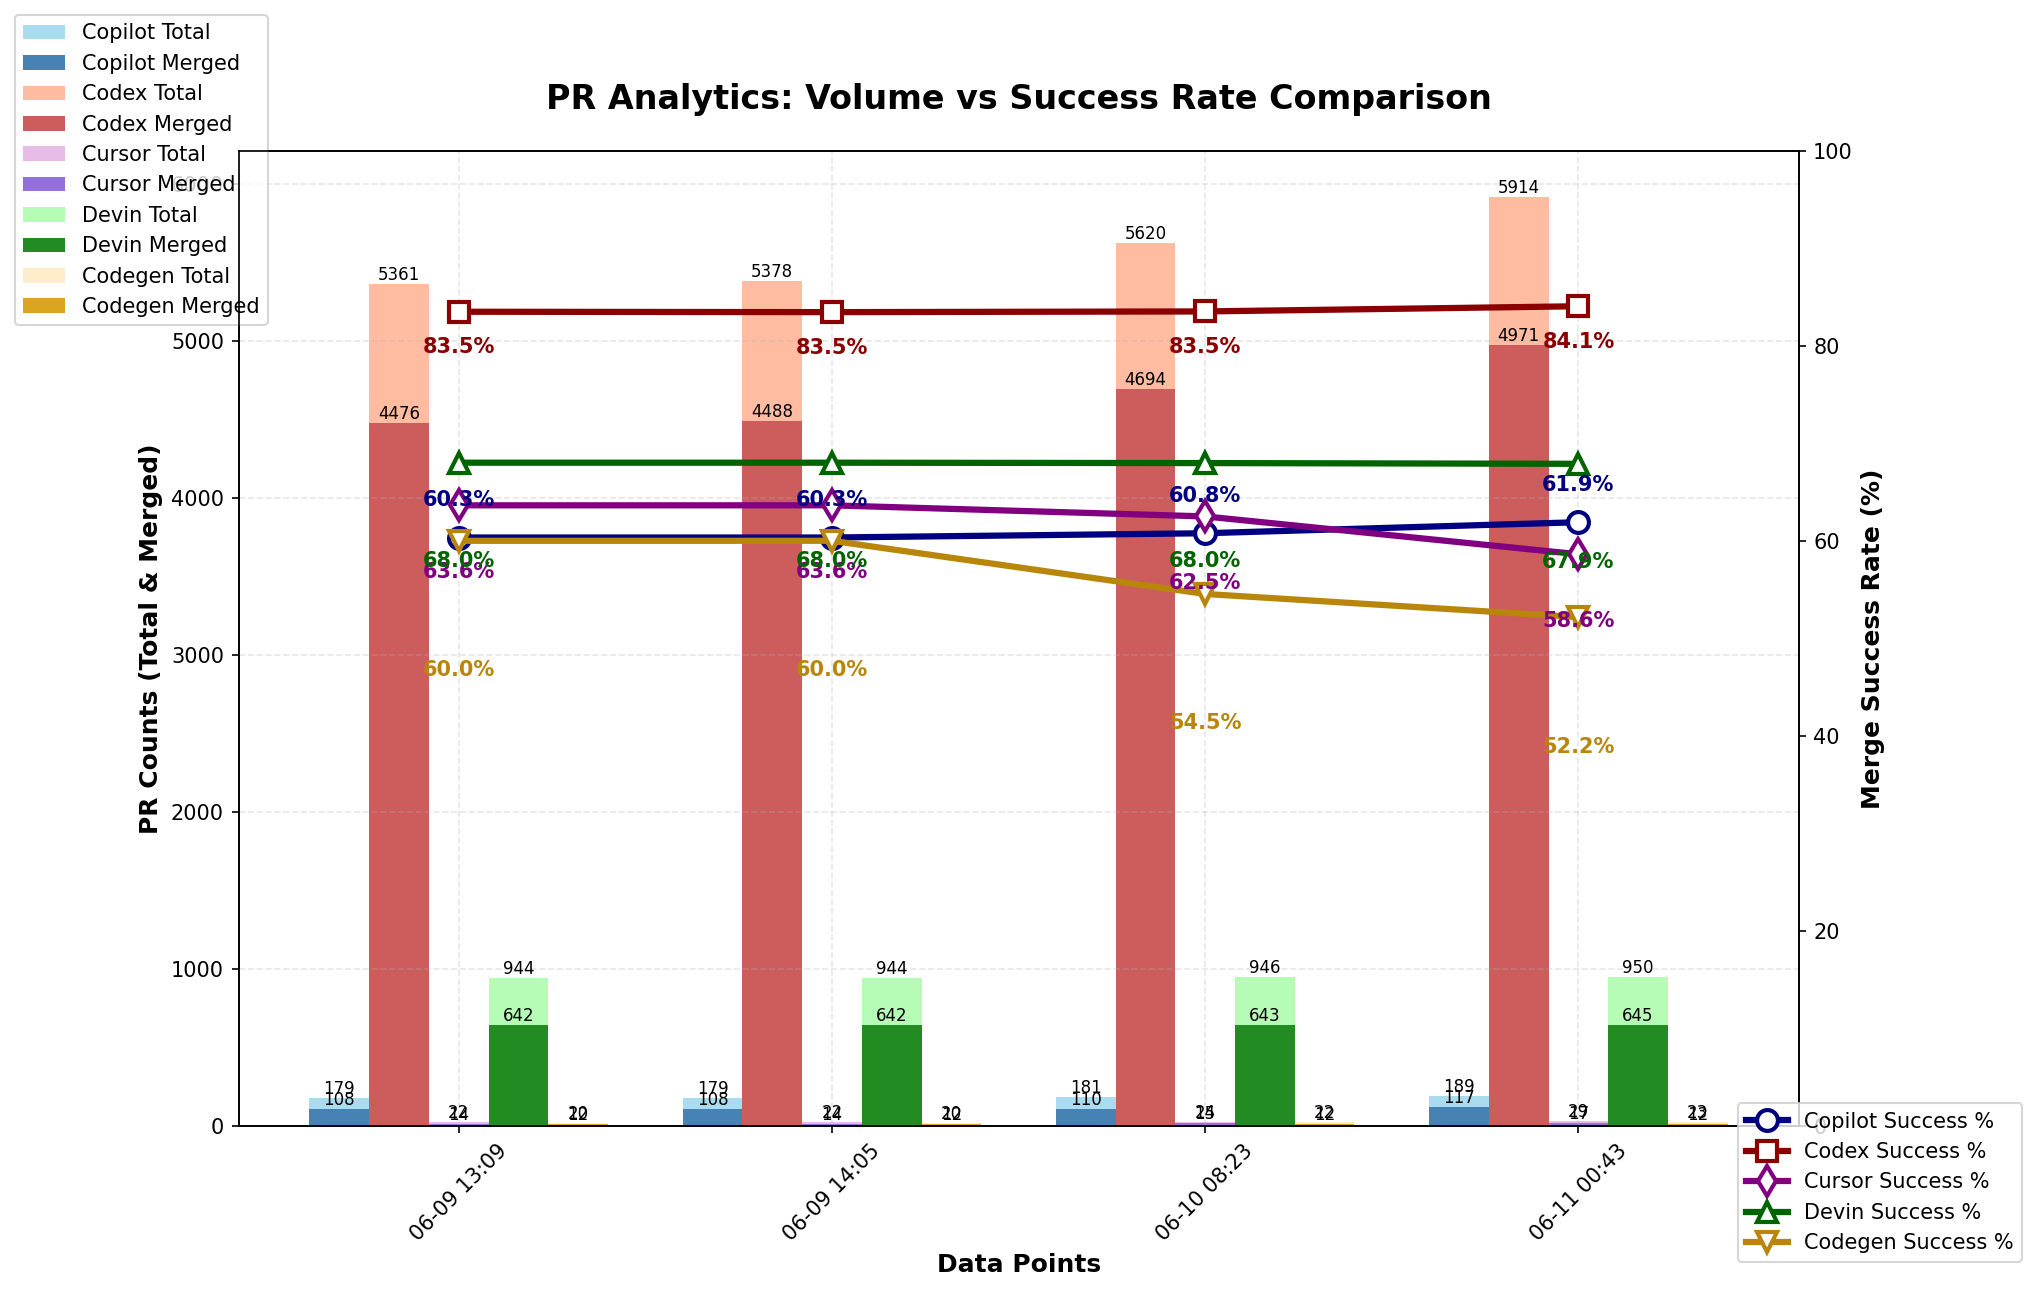
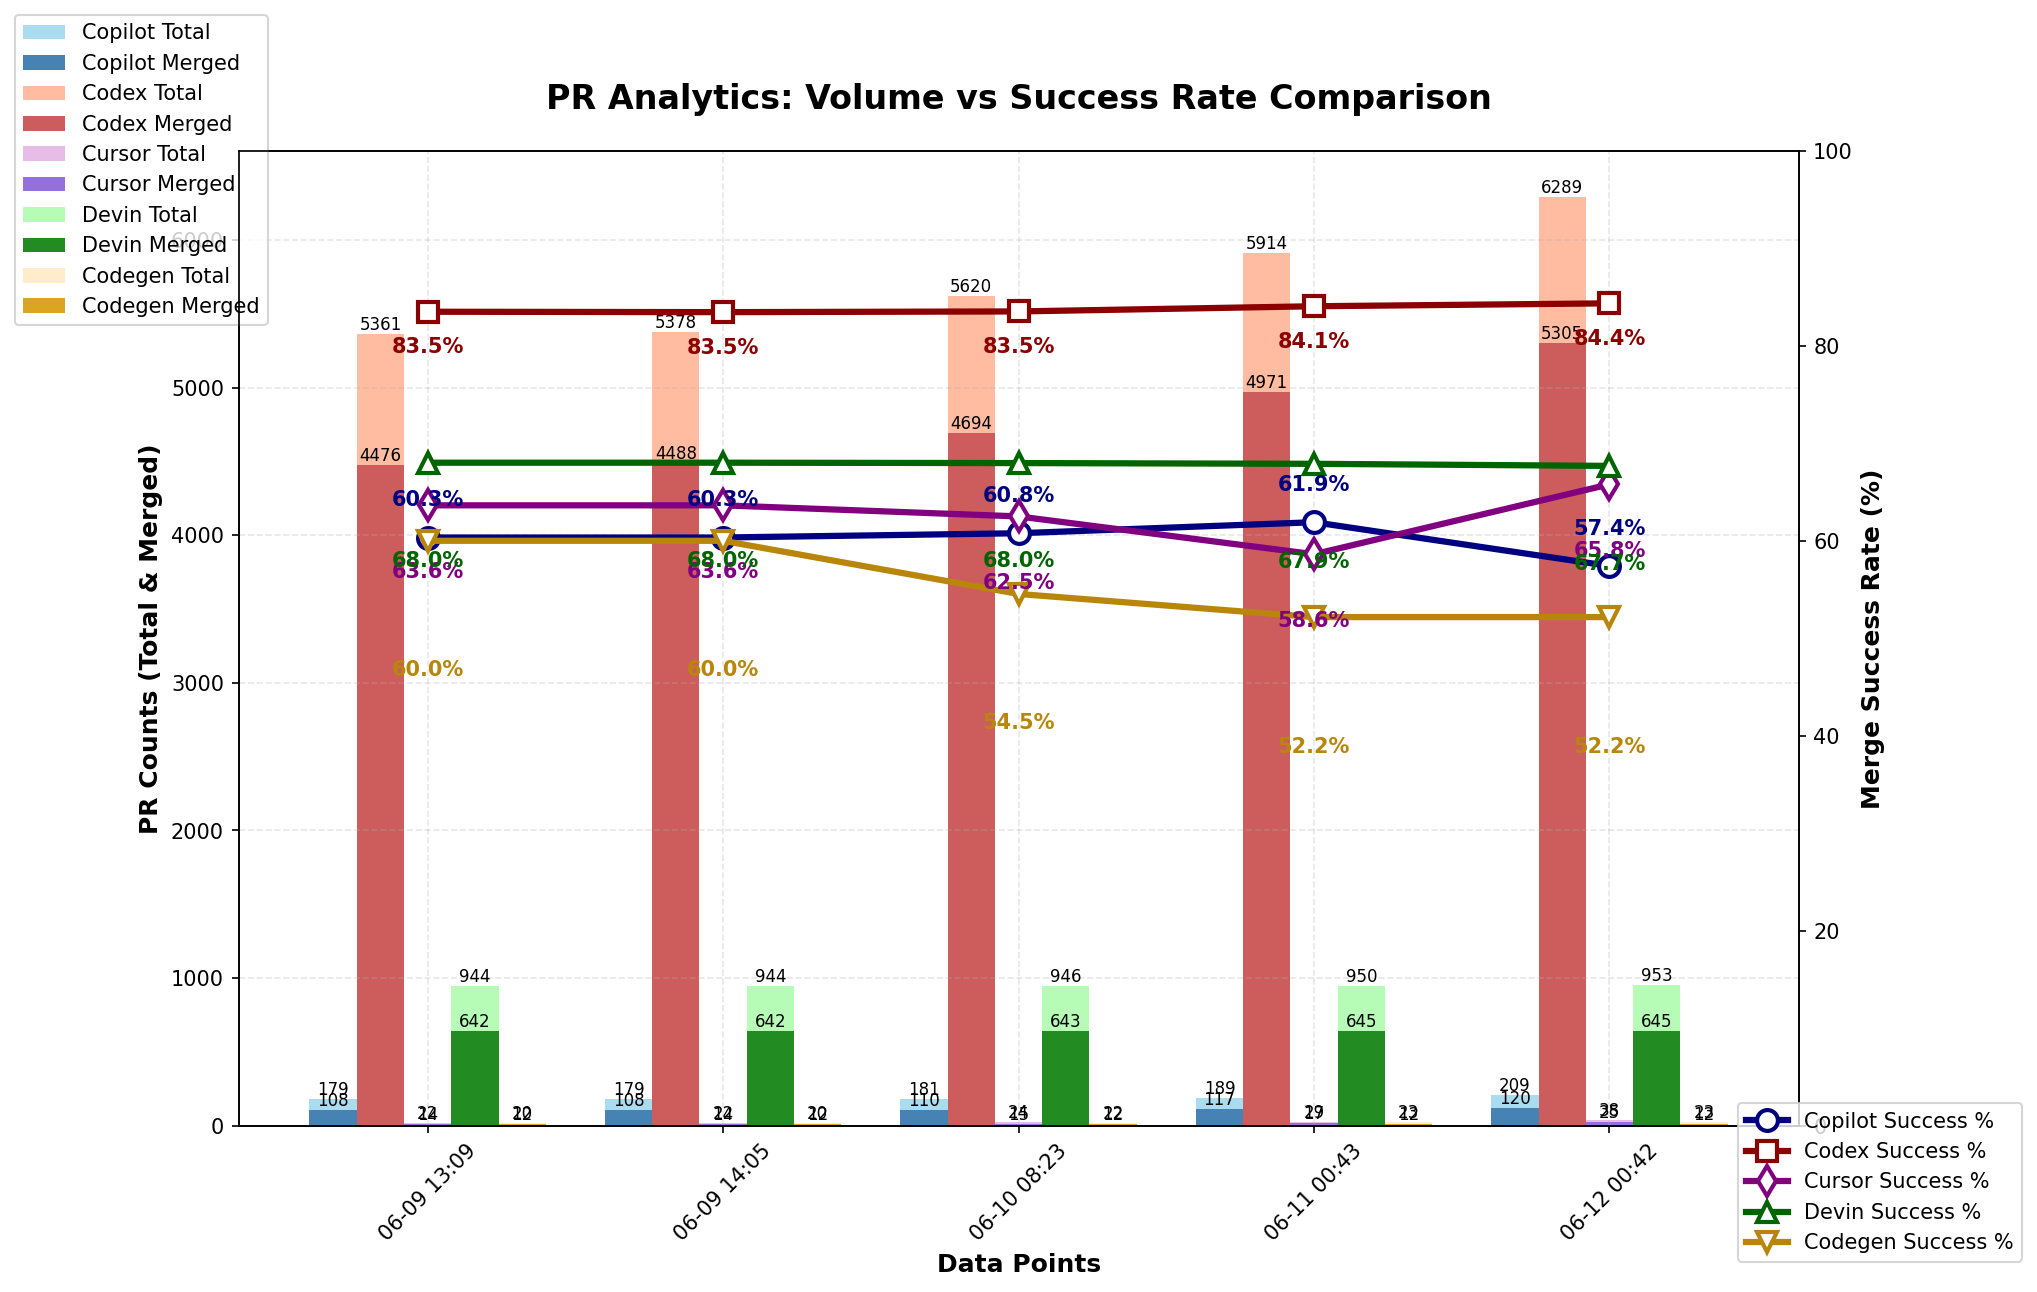
chore: update PR‑approval chart

diff --git a/docs/index.html b/docs/index.html
@@ -213,7 +213,7 @@
 
     <footer>
       <p>
-        Last updated: <span id="last-updated">June 11, 2025 00:43 UTC</span>
+        Last updated: <span id="last-updated">June 12, 2025 00:42 UTC</span>
       </p>
       <p>
         <a href="https://github.com/hovancik/ai-pr-watcher-rust">View on GitHub</a>

diff --git a/README.md b/README.md
@@ -27,8 +27,8 @@ Explore the GitHub search queries used:
 
 | Project | Total PRs | Merged PRs | Merge Rate |
 | ------- | --------- | ---------- | ---------- |
-| Copilot | 189 | 117 | 61.90% |
-| Codex   | 5,914 | 4,971 | 84.05% |
-| Cursor  | 29 | 17 | 58.62% |
-| Devin   | 950 | 645 | 67.89% |
+| Copilot | 209 | 120 | 57.42% |
+| Codex   | 6,289 | 5,305 | 84.35% |
+| Cursor  | 38 | 25 | 65.79% |
+| Devin   | 953 | 645 | 67.68% |
 | Codegen | 23 | 12 | 52.17% |
